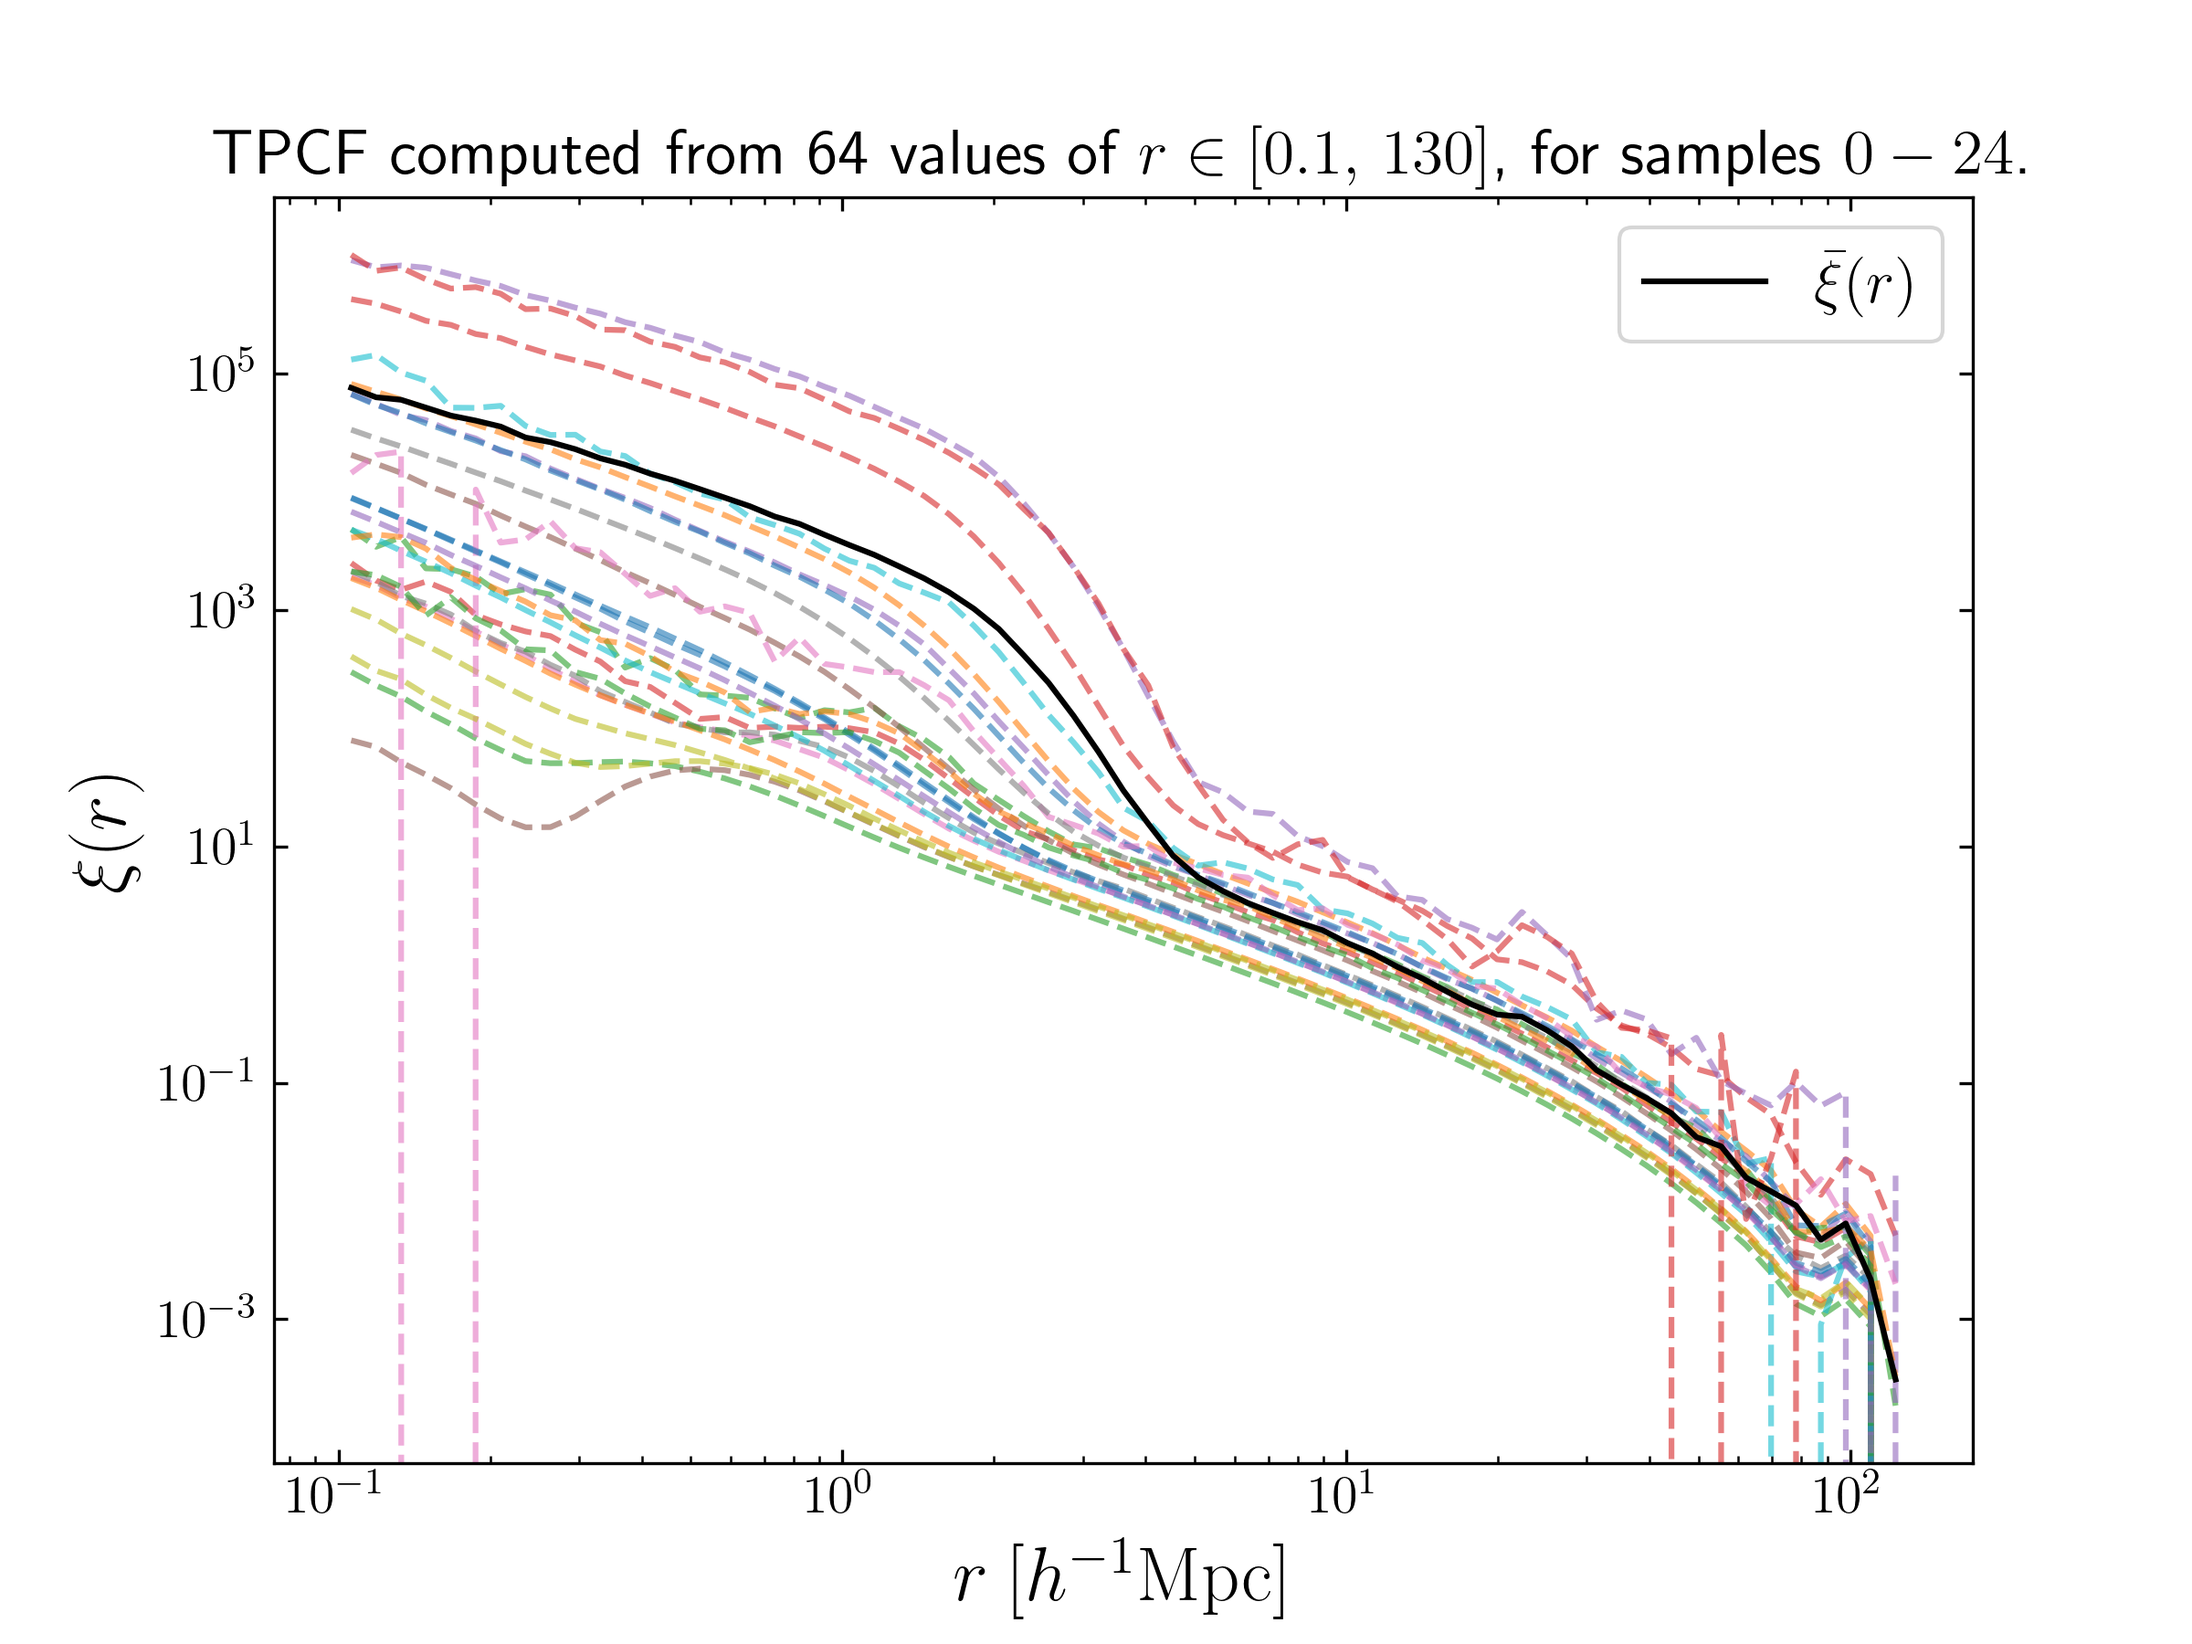
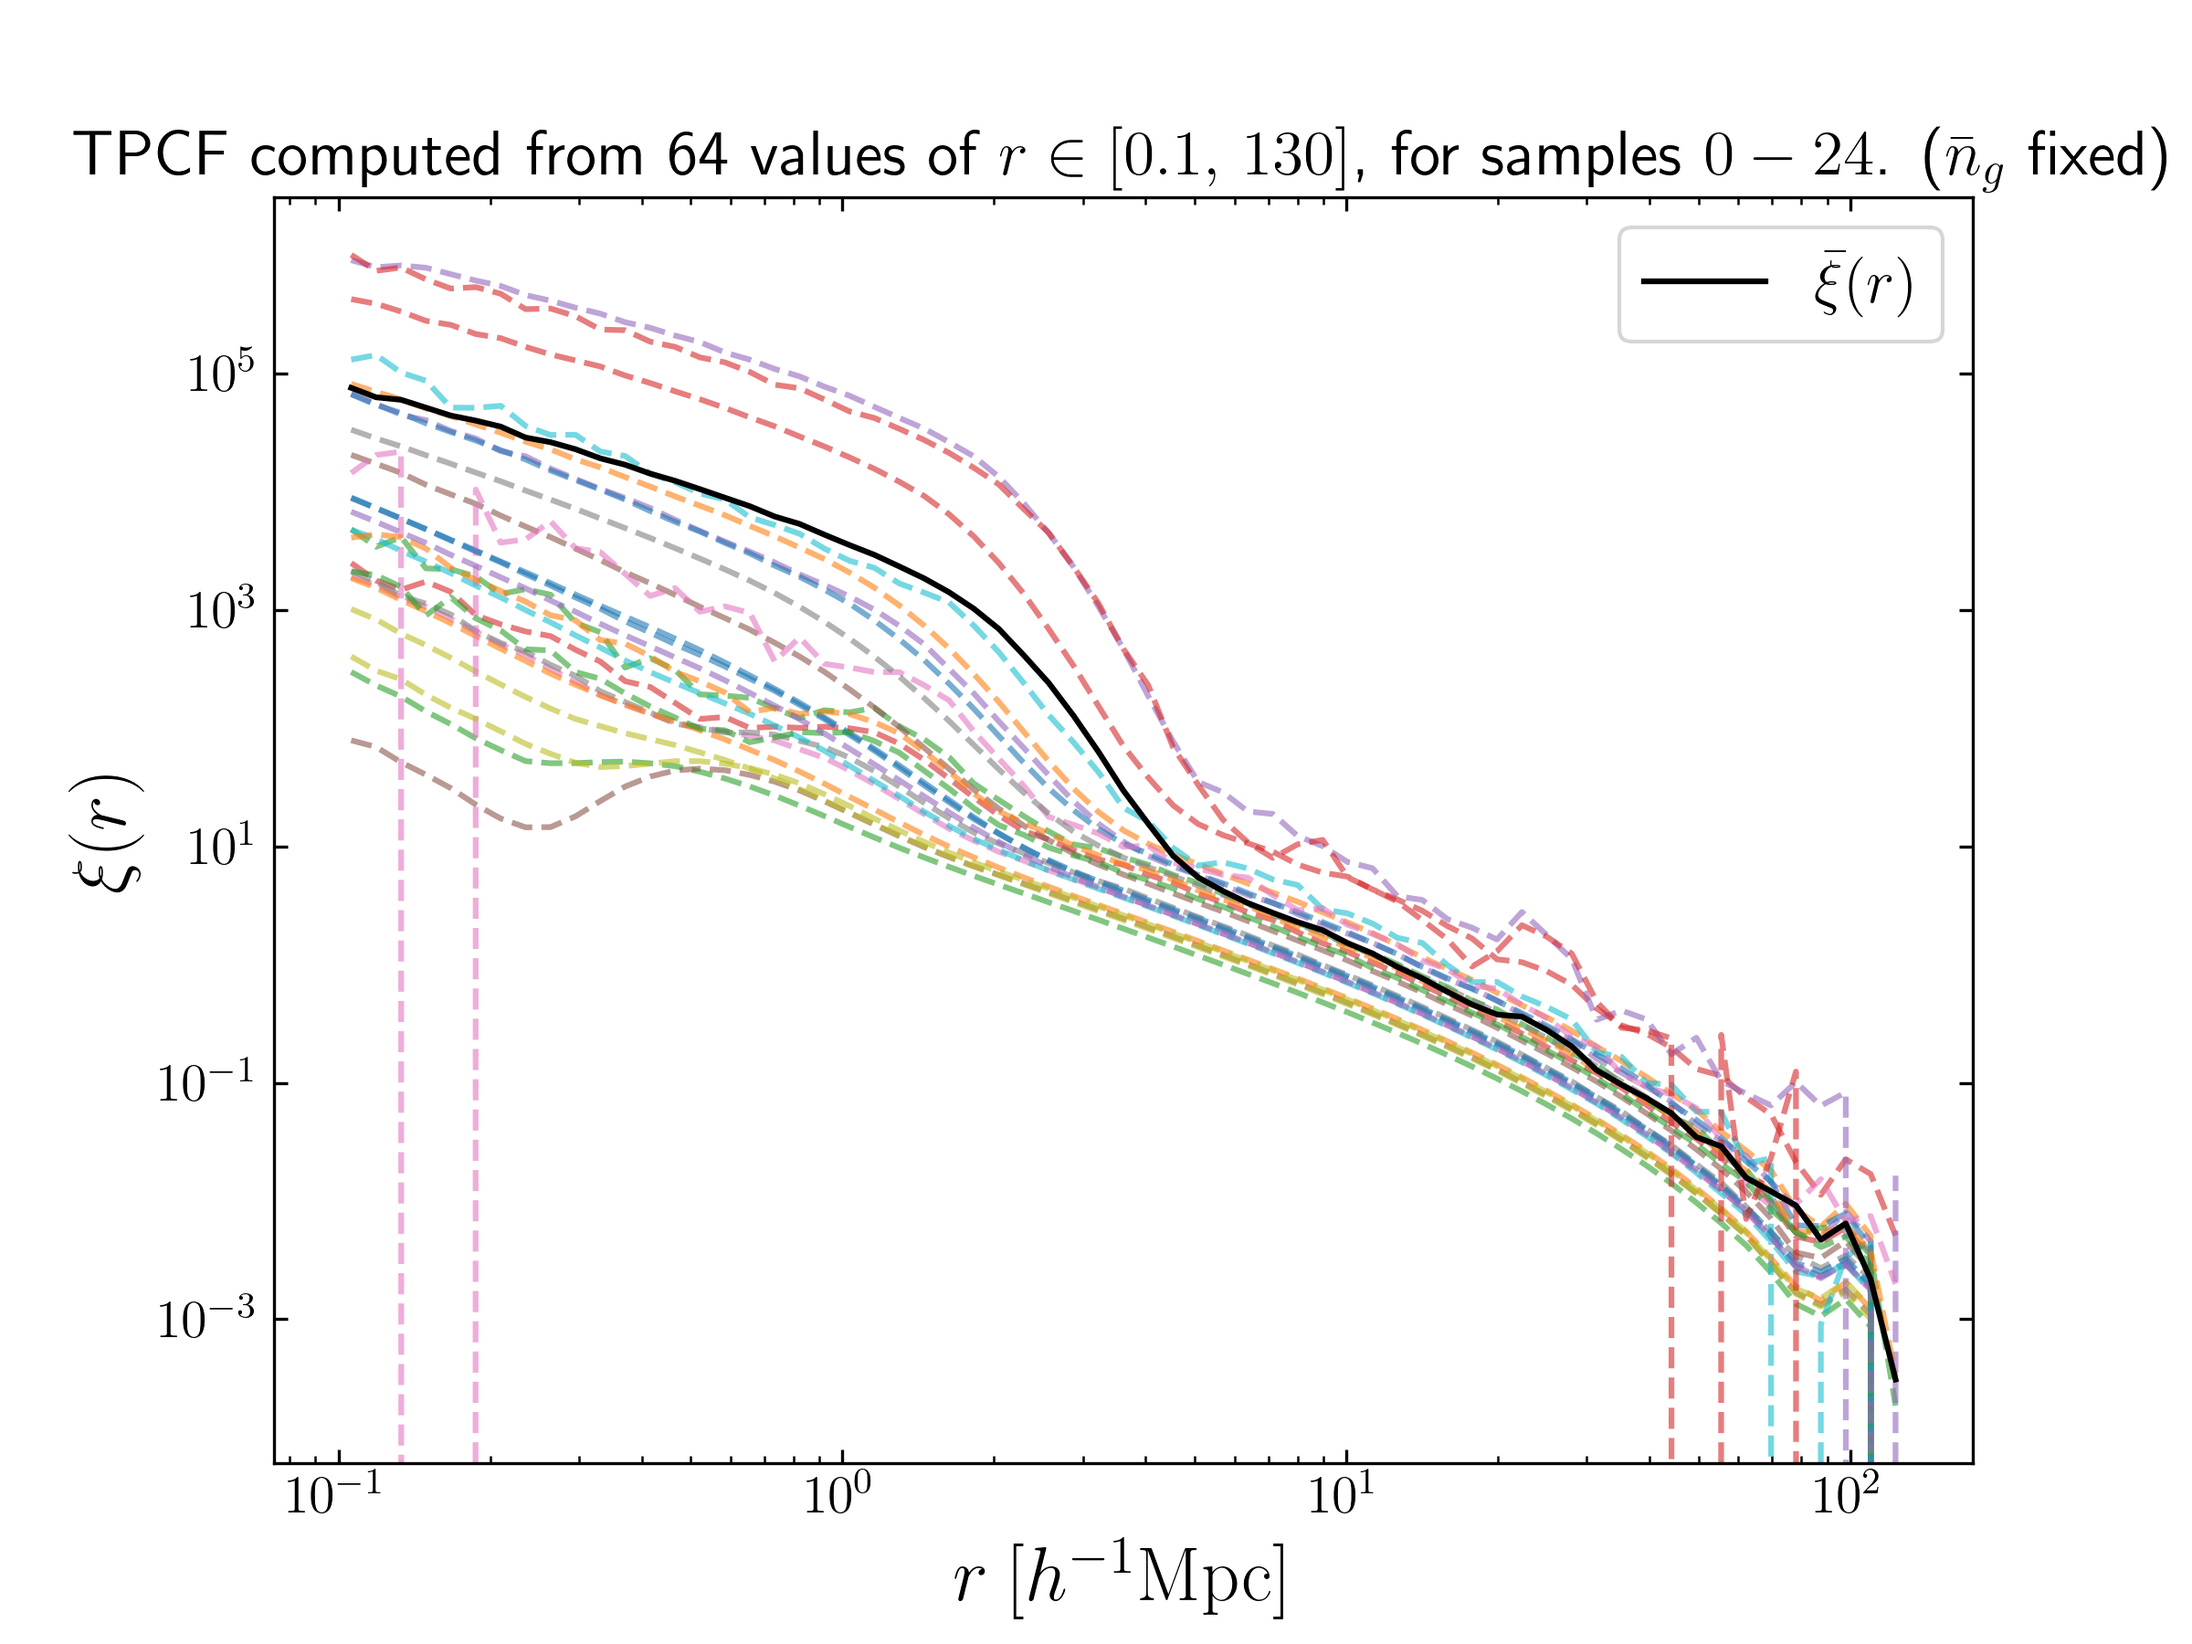
update plots

Changed region(s): [[0.0312, 0.0622, 0.625, 0.1244], [0.625, 0.0622, 1.0, 0.1244]]

diff --git a/HaloModel/HOD_emulation_LCDM/plot_tpcf.py b/HaloModel/HOD_emulation_LCDM/plot_tpcf.py
@@ -64,7 +64,10 @@ def plot_TPCF_train_halocats_interval(interval=5, n_bins=128):
 
         if (i+1) % interval == 0 or i == 49:
             node_range = f"{i-interval+1}-{i}"
-            ax.set_title(rf"TPCF computed from {n_bins} values of $r\in[0.1,\,130]$, for samples ${node_range}$.")
+            fig_title = rf"TPCF computed from {n_bins} values of $r\in[0.1,\,130]$, for samples ${node_range}$."
+            if NG_FIXED:
+                fig_title += r" ($\bar{n}_g$ fixed)"
+            ax.set_title(fig_title)
             # xi_mean = np.mean(xi_all, axis=0)
             xi_bar = compute_TPCF_average(n_bins=n_bins)
             ax.plot(r, xi_bar, color='k', label=rf"$\bar{{\xi}}(r)$")
@@ -107,7 +110,10 @@ def plot_xi_over_xi_bar(interval=5, n_bins=128):
             # xi_mean = np.mean(xi_all, axis=0)
             # ax.plot(r, xi_mean, color='k', label=r"$\bar{\xi}(r)$")
             # xi_all = []
-            ax.set_title(f"TPCF ratio from {n_bins} values of $r\in[0.1,\,130]$, for samples ${node_range}$.")
+            fig_title = f"TPCF ratio from {n_bins} values of $r\in[0.1,\,130]$, for samples ${node_range}$"
+            if NG_FIXED:
+                fig_title += r" ($\bar{n}_g$ fixed)"
+            ax.set_title(fig_title)
 
             ax.set_yscale('log')
             ax.set_xscale('log')
